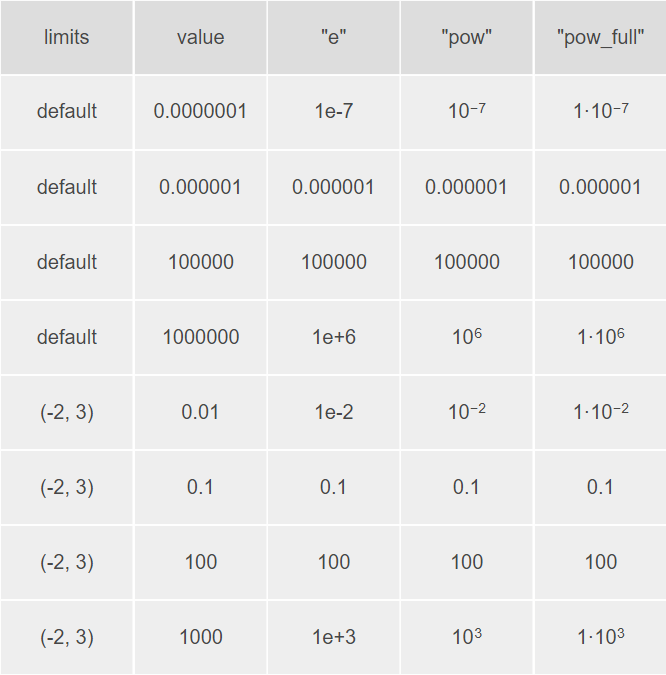
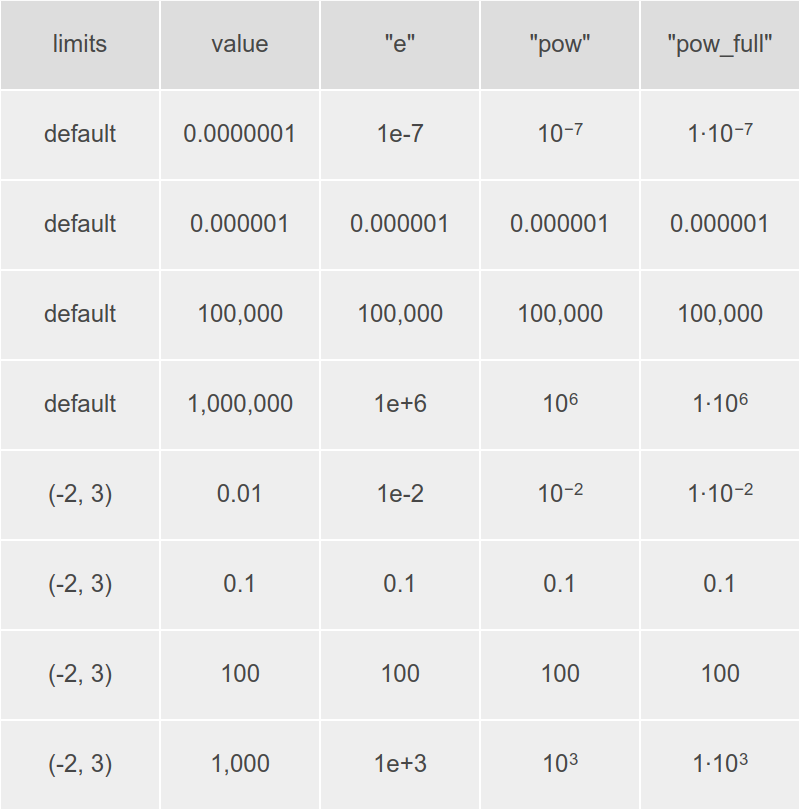
Writerside: Update 'Exponent Format' section (new name - 'Scientific Notation') on the Formatting page.

diff --git a/Writerside/topics/formats.md b/Writerside/topics/formats.md
@@ -197,27 +197,25 @@ Let's apply the format string to the date `Aug 6, 2019` and the time `4:46:35`:
 %B %e %Y %H:%M %p      -->  "August 6 2019 04:46 AM"
 ```
 
-## Exponent Format
+## Scientific Notation
 
-The appearance of numbers in scientific notation can be further customized using the `exponentFormat` parameter of the [`theme()`](%api_theme%/theme/index.html) function:
+The `exponentFormat` parameter of the [`theme()`](%api_theme%/theme/index.html) function controls the appearance of numbers formatted with `e` or `g` types.
+Scientific notation can be displayed using regular e-notation or with superscript powers of 10.
+For `g` type formatting, you can also specify when scientific notation should be applied based on exponent bounds.
 
-- Scientific notation is used for numbers formatted with the `e` or `g` types.
+The value is either a string - `style`, or a tuple: (`style`, `lower exp.bound`, `upper exp.bound`).
+Where the `style` can be:
 
-- The `exponentFormat` parameter can take a string value:
+- `"e"` for e-notation (e.g., 1e+6);
 
-  - `"e"` for e-notation (e.g. 1e+6);
-  - `"pow_full"` for power-notation (e.g. ${ 1 \cdot 10^6 }$). This will enable superscript formatting for the exponent;
-  - `"pow"` works as `"pow_full"` but will shorten powers of 10 (e.g. $10^6$ instead of ${ 1 \cdot 10^6 }$).
+- `"pow"` for superscript powers of 10 in shortened form (e.g., $10^6$);
 
-- Additionally, the `exponentFormat` parameter can be a tuple with three elements, where:
+- `"pow_full"` for superscript powers of 10 with coefficient (e.g., $1 \cdot 10^6$).
 
-  - the first value specifies the appearance (`"e"`/`"pow"`/`"pow_full"`);
-  - the second value sets the minimum exponent at which scientific notation starts being used (-7 by default);
-  - the third value sets the maximum exponent at which scientific notation starts being used (6 by default).
+For `g` type formatting, scientific notation is applied when the number's exponent is less than or equal to the `lower exp.bound` (-7 by default)
+or greater than or equal to the `upper exp.bound` (6 by default, but can be affected by `precision` in format specifier).
 
-  This only makes sense when the `g` type formatting is applied.
-
-It can be summarized in the following table:
+The following table demonstrates the behavior with format string `",~g"`:
 
 ![Scientific notation table](formats_scientific_notation_table.png)
 
